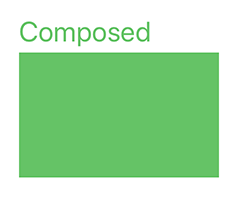
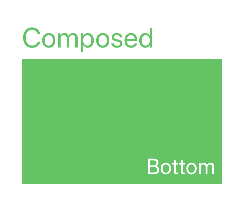
Added Union and Intersection to CGSize

Changed region(s): [[0.0596, 0.09, 0.9532, 0.93]]

diff --git a/Example/ComposedExample/ComposedExampleVC.swift b/Example/ComposedExample/ComposedExampleVC.swift
@@ -11,7 +11,12 @@ import Composed
 
 class ComposedExampleVC: UIViewController {
     override func loadView() {
-        self.view = ComposedExampleView()
+        view = ComposedExampleView()
+    }
+    
+    override func viewDidLoad() {
+        super.viewDidLoad()
+        view.backgroundColor = .systemBackground
     }
 }
 
@@ -28,6 +33,7 @@ class ComposedExampleView: UIView {
         l.text = "Composed"
         l.numberOfLines = 0
         l.font = .preferredFont(forTextStyle: .title1)
+        l.adjustsFontForContentSizeCategory = true
         l.textColor = .systemGreen
         addSubview(l)
         return l
@@ -38,6 +44,7 @@ class ComposedExampleView: UIView {
         l.text = "So Easy!"
         l.numberOfLines = 0
         l.font = .preferredFont(forTextStyle: .title2)
+        l.adjustsFontForContentSizeCategory = true
         l.textColor = .systemBackground
         addSubview(l)
         return l
@@ -59,12 +66,13 @@ class ComposedExampleView: UIView {
         )
         
         let insetBox = boxView.frame.insetBy(dx: 6, dy: 4)
-        bottomLabel.frame = bottomLabel
-            .sizeThatFits(insetBox.size)
-            .setCorner(
-                .bottomRight(
-                    insetBox.corners.bottomRight.point
-                )
+        bottomLabel.frame = intersection(
+            bottomLabel.sizeThatFits(insetBox.size),
+            insetBox.size
+        ).setCorner(
+            .bottomRight(
+                insetBox.corners.bottomRight.point
+            )
         )
     }
 }

diff --git a/Example/ComposedExample/CGGeometryExampleVC.swift b/Example/ComposedExample/CGGeometryExampleVC.swift
@@ -10,7 +10,12 @@ import UIKit
 
 class CGGeometryExampleVC: UIViewController {
     override func loadView() {
-        self.view = CGGeometryExampleView()
+        view = CGGeometryExampleView()
+    }
+    
+    override func viewDidLoad() {
+        super.viewDidLoad()
+        view.backgroundColor = .systemBackground
     }
 }
 
@@ -27,6 +32,7 @@ class CGGeometryExampleView: UIView {
         l.text = "CGGeometry"
         l.numberOfLines = 0
         l.font = .preferredFont(forTextStyle: .title1)
+        l.adjustsFontForContentSizeCategory = true
         l.textColor = .systemRed
         addSubview(l)
         return l
@@ -36,7 +42,9 @@ class CGGeometryExampleView: UIView {
         let l = UILabel()
         l.text = "Not so easy..."
         l.numberOfLines = 0
+        l.lineBreakMode = .byTruncatingTail
         l.font = .preferredFont(forTextStyle: .title2)
+        l.adjustsFontForContentSizeCategory = true
         l.textColor = .systemBackground
         addSubview(l)
         return l
@@ -67,7 +75,8 @@ class CGGeometryExampleView: UIView {
         )
         
         let insetBox = boxView.frame.insetBy(dx: 6, dy: 4)
-        let bottomLabelSize = bottomLabel.sizeThatFits(insetBox.size)
+        var bottomLabelSize = bottomLabel.sizeThatFits(insetBox.size)
+        bottomLabelSize.height = min(bottomLabelSize.height, insetBox.height)
         bottomLabel.frame = CGRect(
             x: insetBox.maxX - bottomLabelSize.width,
             y: insetBox.maxY - bottomLabelSize.height,

diff --git a/Composed/CGSize+Composed.swift b/Composed/CGSize+Composed.swift
@@ -28,4 +28,34 @@ public extension CGSize {
     func expandedBy(x: CGFloat, y: CGFloat) -> CGSize {
         return insetBy(x: -x, y: -y)
     }
+    
+    static var max: CGSize {
+        return CGSize(
+            width: CGFloat.greatestFiniteMagnitude,
+            height: CGFloat.greatestFiniteMagnitude
+        )
+    }
+}
+
+public func intersection(_ sizes: CGSize...) -> CGSize {
+    return intersection(sizes)
+}
+public func intersection(_ sizes: [CGSize]) -> CGSize {
+    return processWidthAndHeight(for: sizes, initial: .max, function: min)
+}
+
+public func union(_ sizes: CGSize...) -> CGSize {
+    return union(sizes)
+}
+public func union(_ sizes: [CGSize]) -> CGSize {
+    return processWidthAndHeight(for: sizes, initial: .zero, function: max)
+}
+
+private func processWidthAndHeight(for sizes: [CGSize], initial: CGSize, function: (CGFloat, CGFloat) -> CGFloat) -> CGSize {
+    return sizes.reduce(initial) { (result, size) -> CGSize in
+        return CGSize(
+            width: function(size.width, result.width),
+            height: function(size.height, result.height)
+        )
+    }
 }

diff --git a/ComposedTests/ComposedTests.swift b/ComposedTests/ComposedTests.swift
@@ -134,4 +134,32 @@ class ComposedTests: XCTestCase {
             CGSize(width: 500, height: 100)
         )
     }
+    
+    func testUnion() {
+        XCTAssertEqual(
+            union(
+                CGSize(width: 100, height: 20),
+                CGSize(width: 10, height: 150),
+                CGSize(width: 2, height: 2),
+                CGSize(width: 125, height: 1)
+            ),
+            CGSize(
+                width: 125,
+                height: 150)
+        )
+    }
+    
+    func testIntersection() {
+        XCTAssertEqual(
+            intersection(
+                CGSize(width: 100, height: 20),
+                CGSize(width: 10, height: 150),
+                CGSize(width: 2, height: 2),
+                CGSize(width: 125, height: 1)
+            ),
+            CGSize(
+                width: 2,
+                height: 1)
+        )
+    }
 }

diff --git a/README.md b/README.md
@@ -1,7 +1,5 @@
 #  Composed
 
----
-
 **Make designing views in `layoutSubviews()` simpler with extensions to `CGGeometry` structs such as `CGRect`, `CGSize`, and `CGPoint`.**
 
 Composed is in its early stages of development. Thanks for your interest!
@@ -47,6 +45,15 @@ topLabel.frame = topLabel
         )
 )
 
+let insetBox = boxView.frame.insetBy(dx: 6, dy: 4)
+bottomLabel.frame = bottomLabel
+    .sizeThatFits(insetBox.size)
+    .setCorner(
+        .bottomRight(
+            insetBox.corners.bottomRight.point
+        )
+)
+
 // CGGeometry
 let topLabelSize = topLabel.sizeThatFits(
     CGSize(
@@ -59,6 +66,15 @@ topLabel.frame = CGRect(
     y: boxView.frame.minY - (topLabelSize.height + 4),
     width: topLabelSize.width,
     height: topLabelSize.height
+)
+
+let insetBox = boxView.frame.insetBy(dx: 6, dy: 4)
+let bottomLabelSize = bottomLabel.sizeThatFits(insetBox.size)
+bottomLabel.frame = CGRect(
+    x: insetBox.maxX - bottomLabelSize.width,
+    y: insetBox.maxY - bottomLabelSize.height,
+    width: bottomLabelSize.width,
+    height: bottomLabelSize.height
 )
 ```
 
